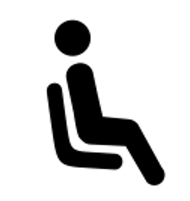
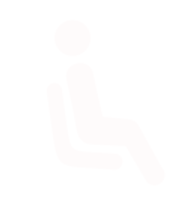
JD fixed centering and added some styling

Changed region(s): [[0.2368, 0.0896, 0.8684, 0.9254]]

diff --git a/styles.css b/styles.css
@@ -1,8 +1,23 @@
+@font-face {
+  font-family: 'Game of Thrones';
+  src: url("fonts/Game of Thrones.ttf");
+}
+h1 {
+  font-family: Game of Thrones;
+  color: #fff;
+}
+p {
+  color: #fff;
+}
+body {
+  background-image: url("img/game-of-thrones-background.jpg");
+}
 #holder {
   height: 200px;
   width: 550px;
-  background-color: #f5f5f5;
-  border: 1px solid #a4a4a4;
+  border-radius: 5px;
+  background-color: #2c2c2c;
+  border: 2px solid #a4a4a4;
   margin: 0 auto;
 }
 #place {
@@ -16,15 +31,14 @@
   list-style: none outside none;
   position: absolute;
 }
-#place li:hover {
+#place li hover {
   background-color: #ff0;
 }
 #place .seat {
   background-image: url("img/seat.png");
   background-size: 20px;
   background-repeat: no-repeat;
-  background-position: right;
-  no-repeat: scroll 0 0 transparent;
+  background-position: right no-repeat scroll 0 0 transparent;
   height: 33px;
   width: 33px;
   display: block;
@@ -47,16 +61,20 @@
   margin-top: 10px;
 }
 #seatDescription li {
-/*verticle-align: middle;*/
+/*verticle-align  middle */
   list-style: none outside none;
   padding-left: 35px;
   height: 100px;
   width: 150px;
-  float: left;
+  display: inline;
+  float: center;
+  color: #fff;
+}
+#key {
+  padding: 20px;
+  width: 100%;
 }
 img {
-/*  height: 50px;
-  width: 50px;*/
   margin: 5px;
 }
 form {
@@ -69,11 +87,5 @@ form {
 }
 .container {
   text-align: center;
-}
-.key {
-  text-align: center;
-  display: inline;
-  margin: 0 auto;
-  width: 100%;
-  background-color: #f00;
+color
 }

diff --git a/seat.html b/seat.html
@@ -9,7 +9,7 @@
 <body class="container">
 
 
-<h2>Game of Thrones Theatre</h2>
+<h1>#<br>Theatre</br></h1>
 <p>Please fill out the form and select your seats</p>
 
 <form class="form-inline">
@@ -30,8 +30,7 @@
         <ul id="place">
         </ul>
     </div>
-    <div class="key">
-    <!-- <div style="float:left;"> -->
+    <div id="key">
         <ul id="seatDescription">
             <li>Available Seat<img src="img/seat.png" width="50px" height="50px"></li>
             <li>Booked Seat<img src="img/booked.png" width="51px" height="51px"></li>
